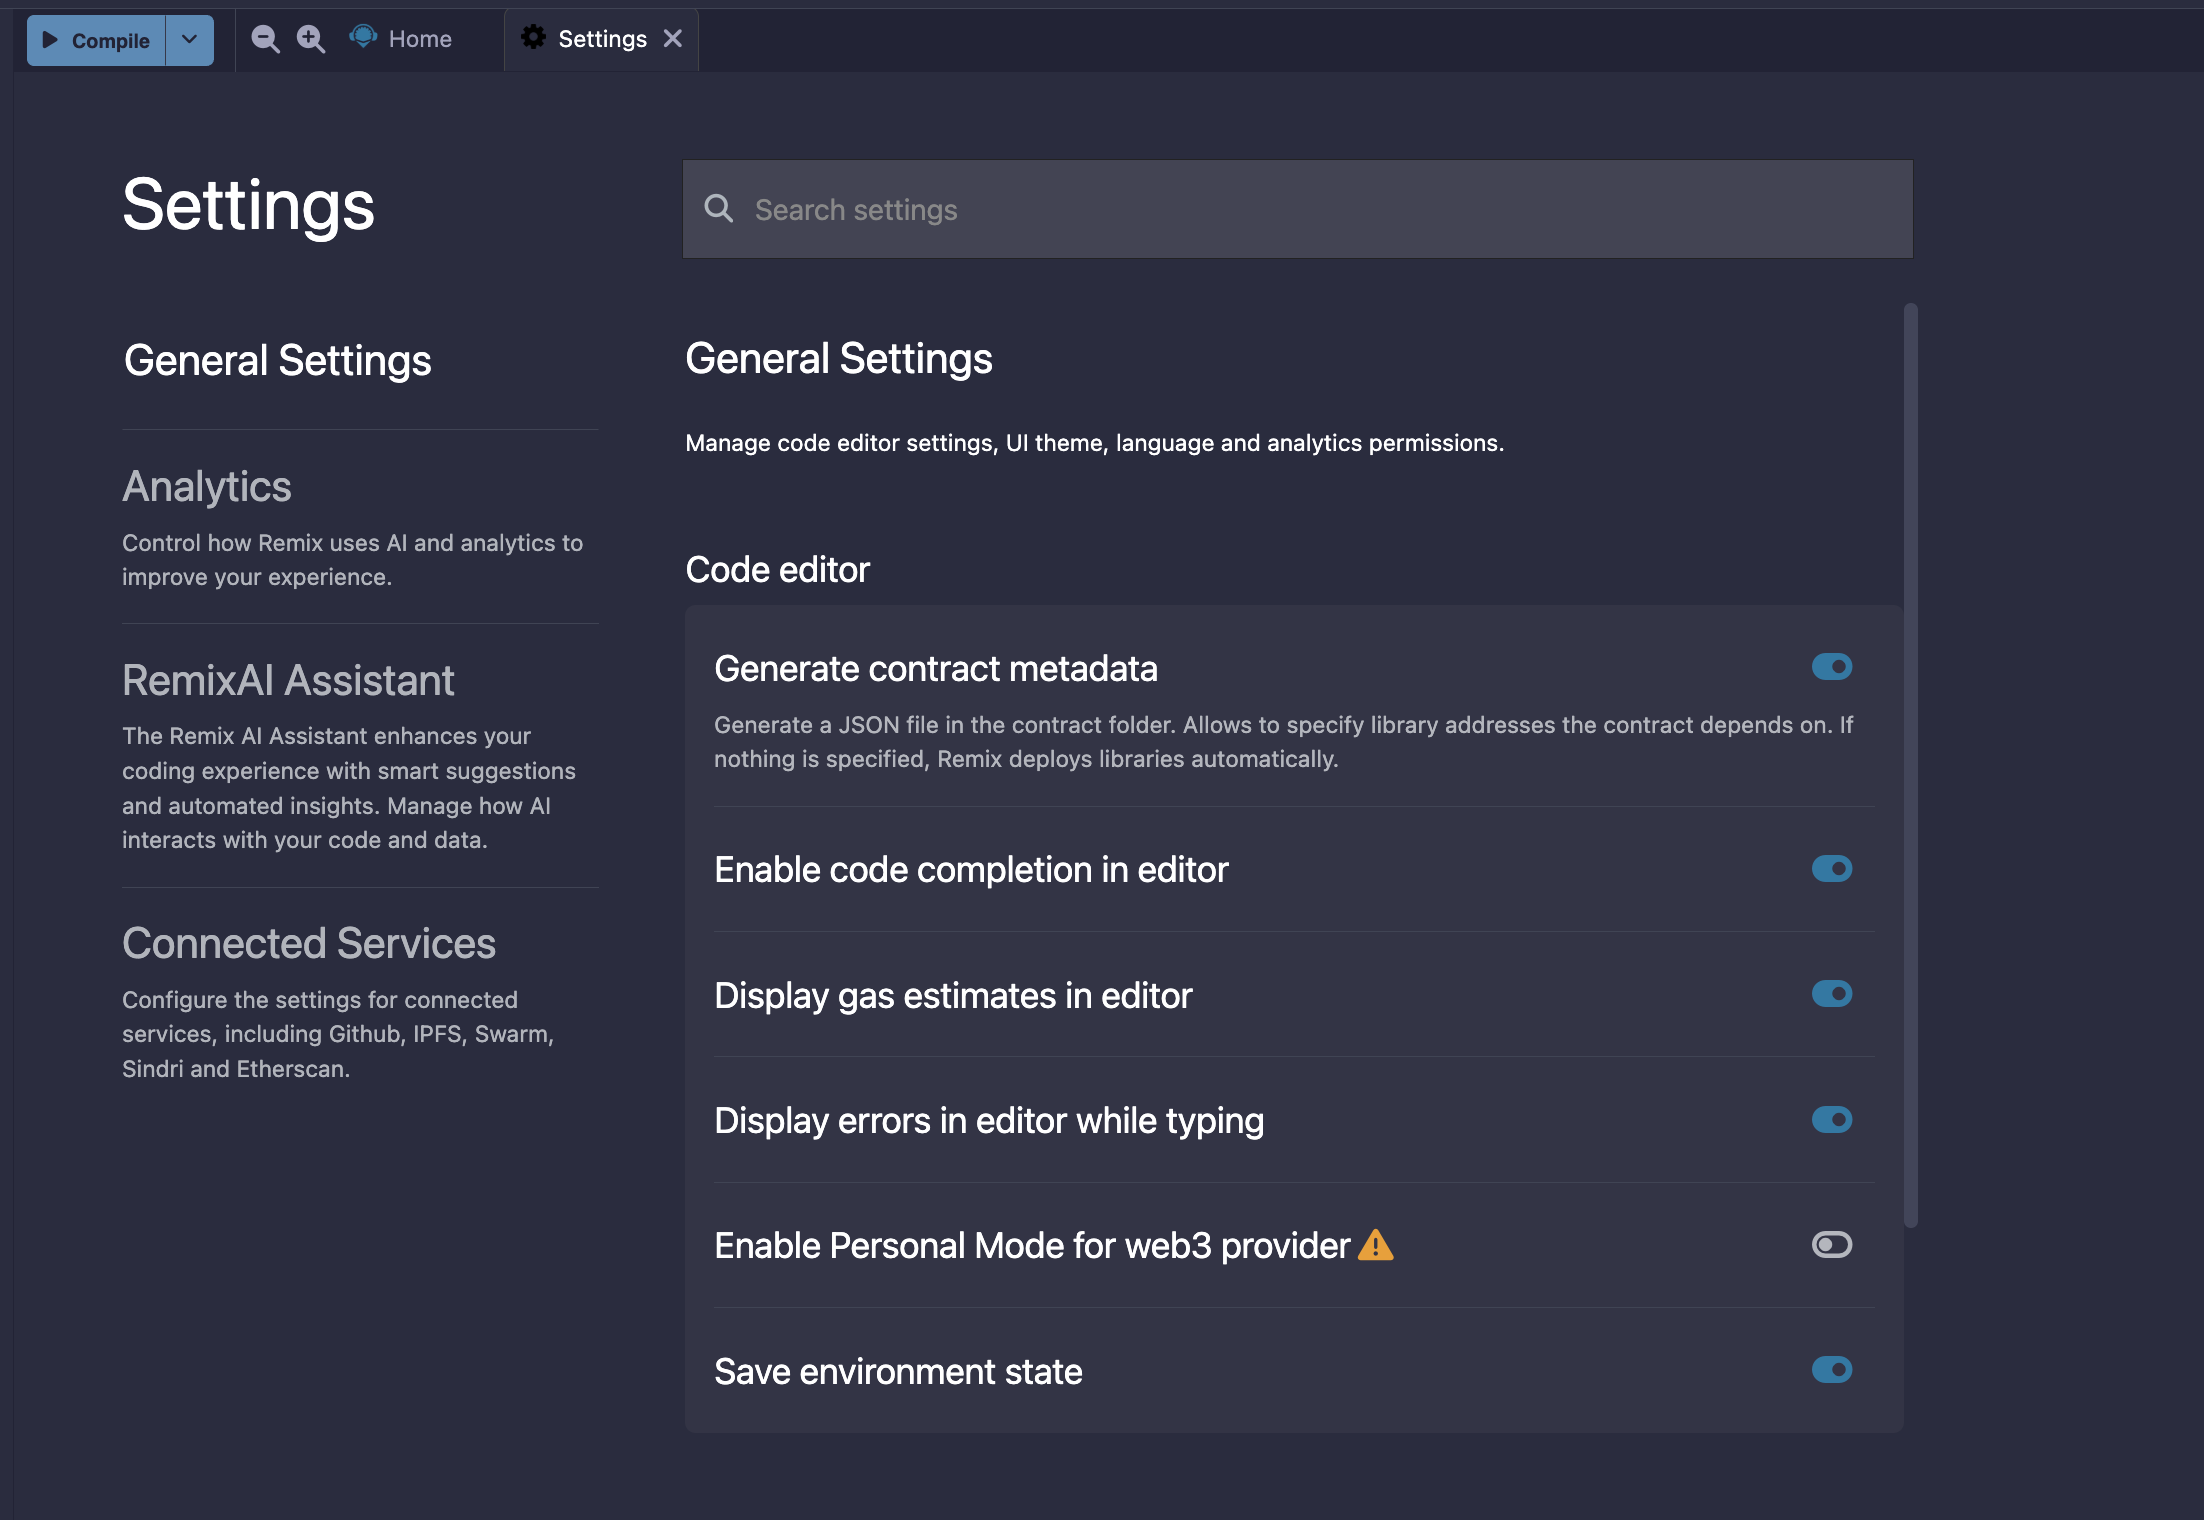
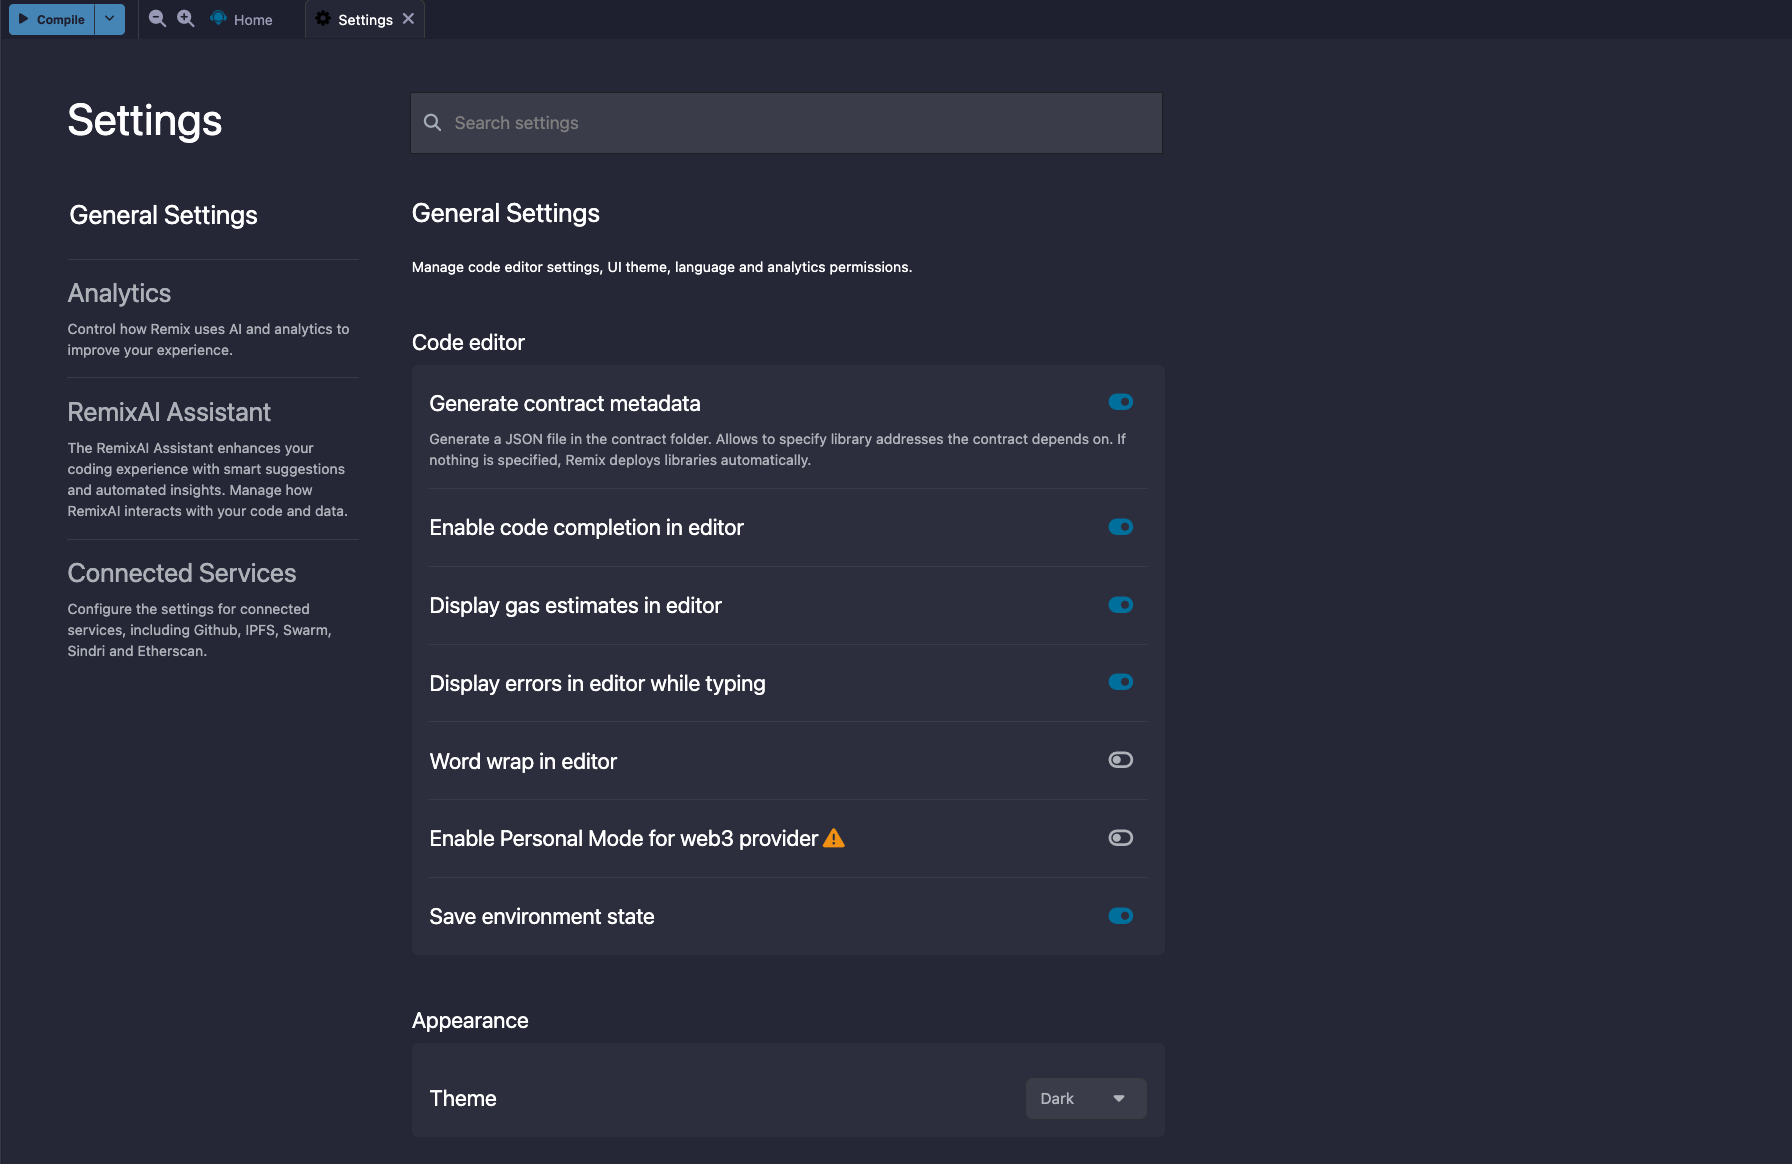
update settings

diff --git a/docs/settings.md b/docs/settings.md
@@ -17,7 +17,7 @@ You can access **Settings** for Remix by clicking the gear icon at the top right
 
 ### Appearance
 
-The general settings section has a subsection (Appearance) where you change your themes. For themes Remix only supports the dark and light theme.
+The Appearance subsection allows you to customize the look of Remix. You can choose between the Dark and Light themes.
 
 ## Analytics
 
